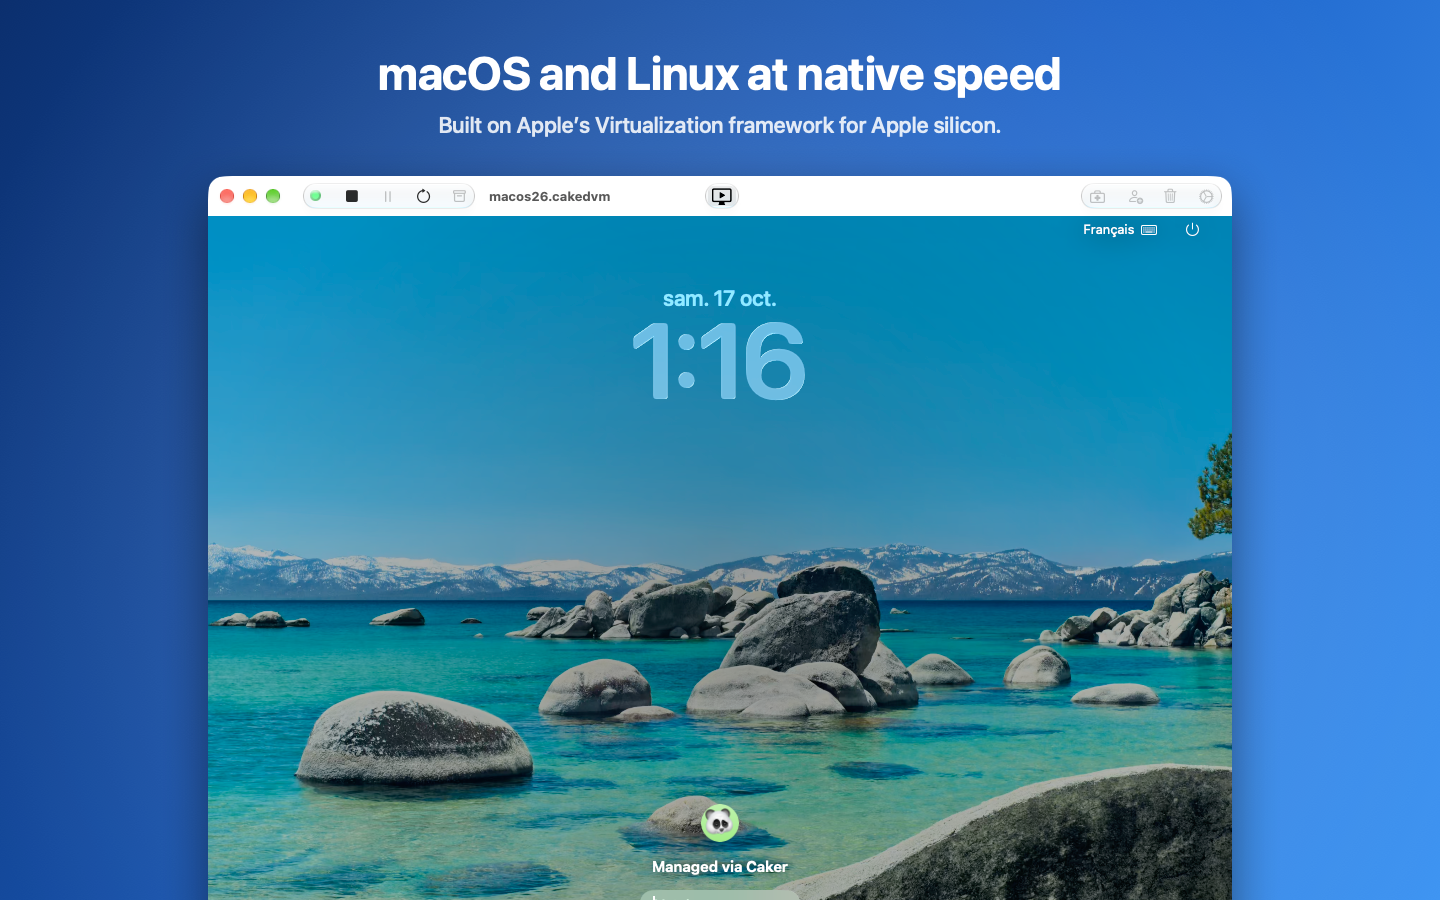
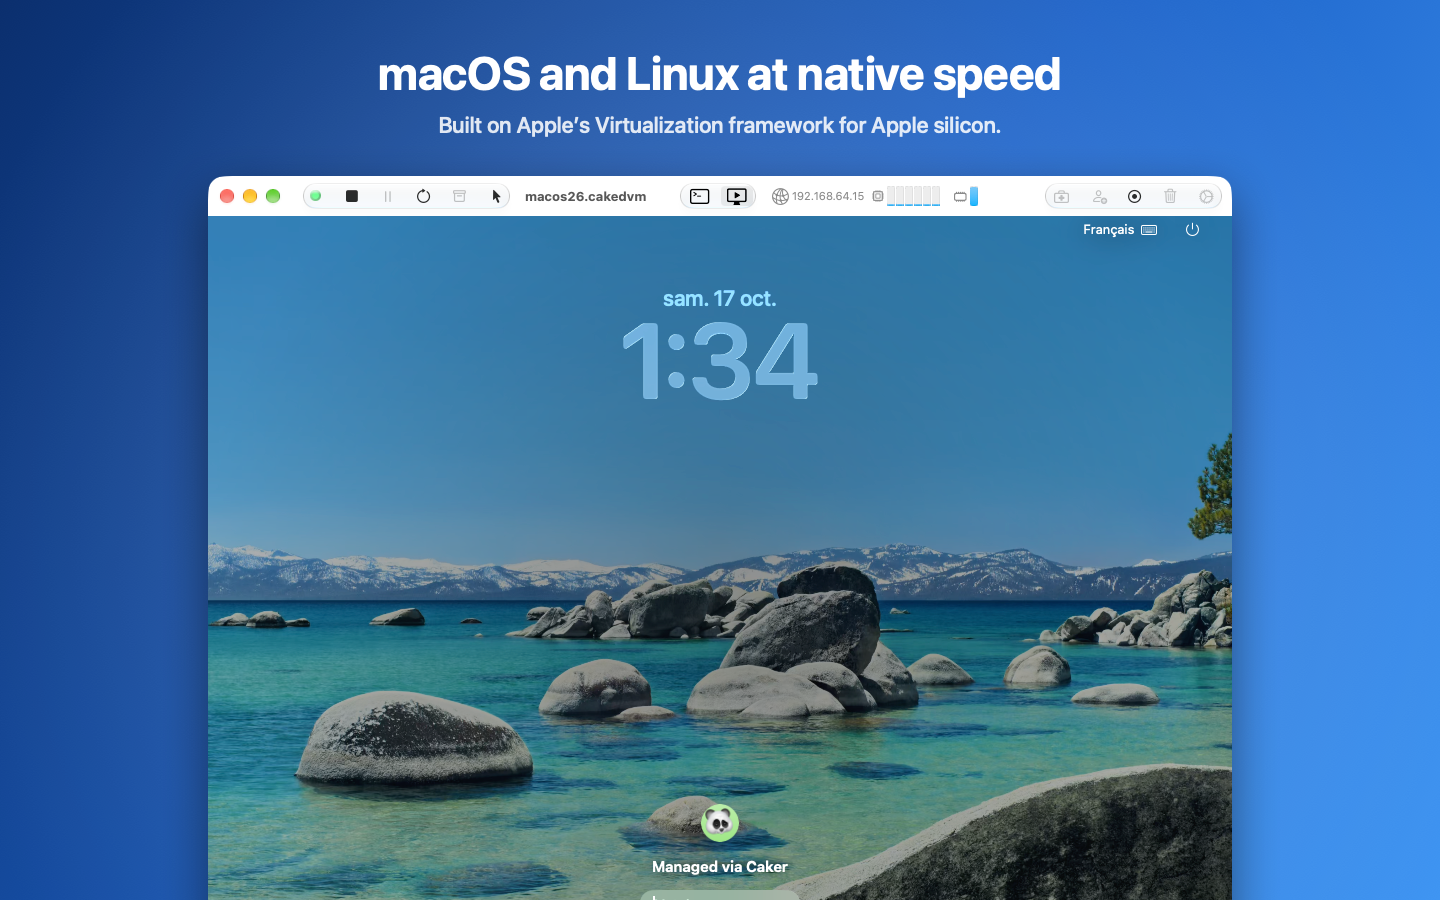
docs(appstore): retake the macOS VM screenshot with the CPU meter
The macOS VM window was captured while the VM ran as a background
caked VM, and that window's toolbar shows no IP address or CPU/memory
meter. Both captures are retaken with the VM running inside Caker, in
English and French, and the README says so for the next retake.

diff --git a/appstore/screenshots/README.md b/appstore/screenshots/README.md
@@ -16,7 +16,9 @@ swift Scripts/appstore-screenshots.swift appstore/screenshots/shots.json
 - Launch Caker in the language you need, e.g.
   `open -a Caker --args -AppleLanguages "(fr)" -AppleLocale fr_FR`.
   A running Caker ignores launch arguments, so quit it first. VMs started
-  with `caked start <vm>` keep running when Caker quits.
+  with `caked start <vm>` keep running when Caker quits, but their window
+  shows no IP address or CPU/memory meter: for a VM window shot, start the VM
+  from Caker itself and wait for the meter to appear.
 - Bring the window to the front, so it's captured in its active state.
 - Capture it without a shadow (the script draws its own), from a terminal that
   has Screen Recording permission:
